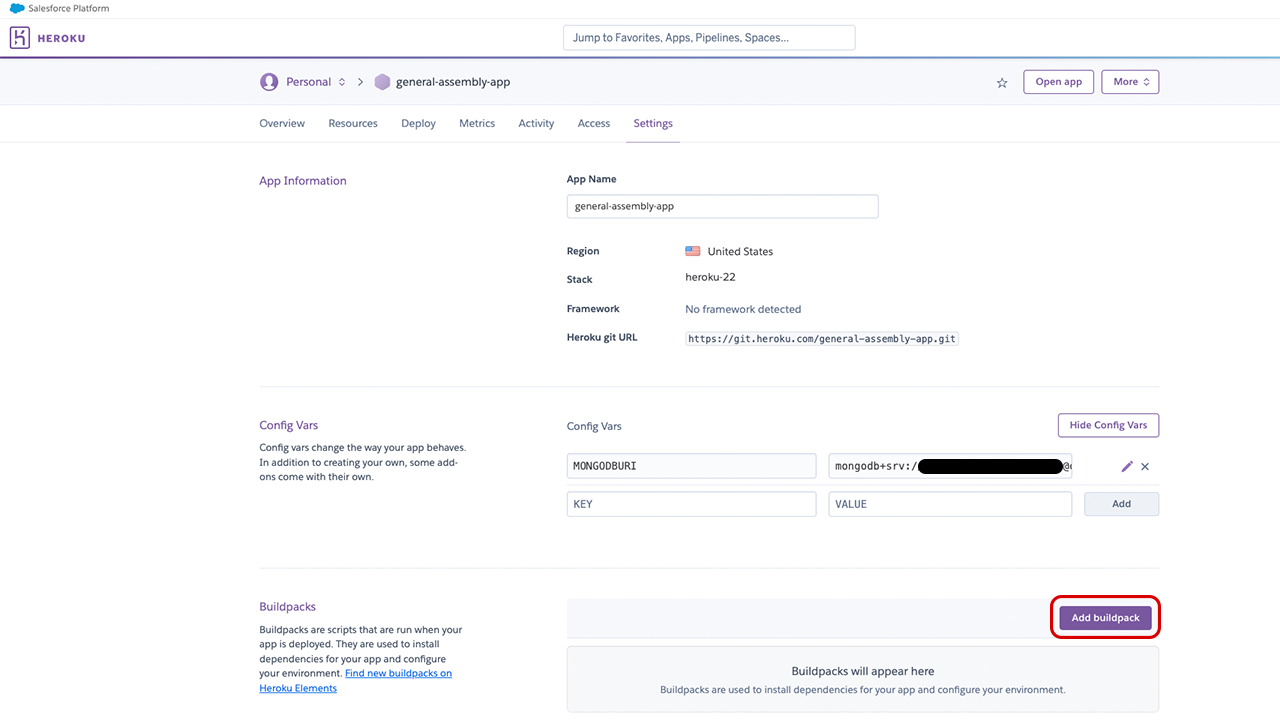
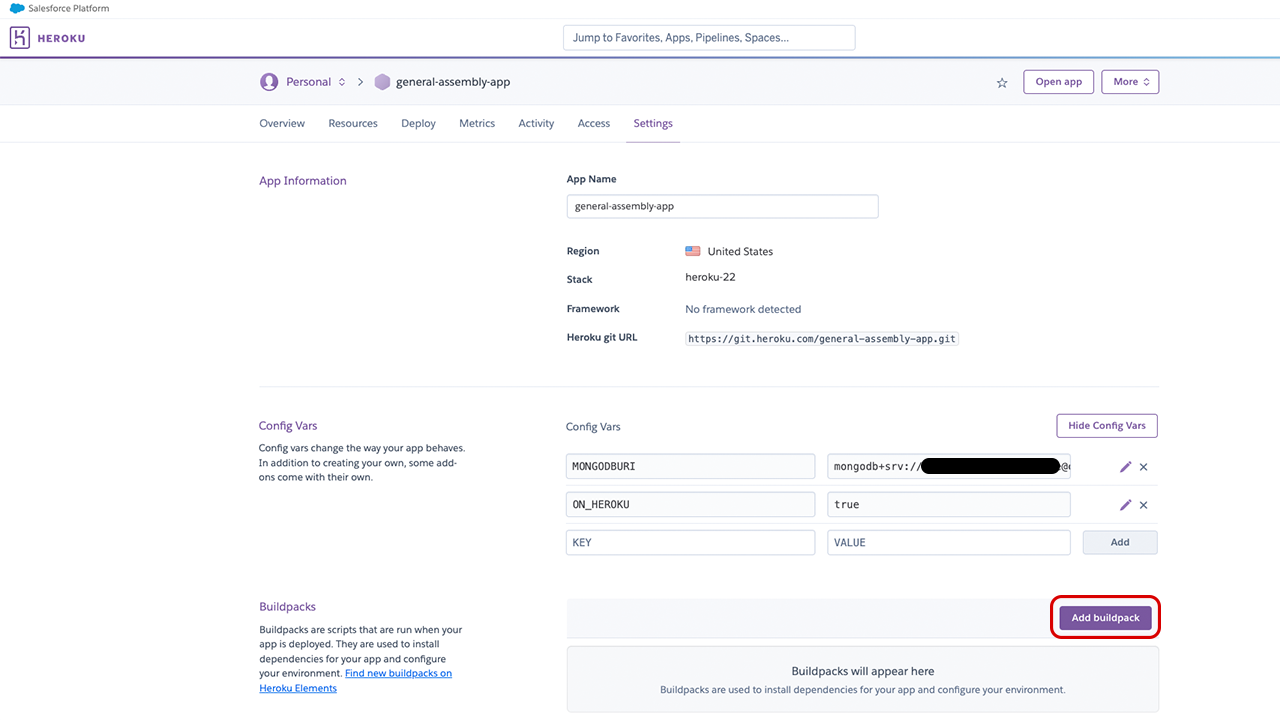
men-stack assets

diff --git a/deployment/men-stack-deployment/README.md b/deployment/men-stack-deployment/README.md
@@ -1,18 +1,11 @@
 # ![MEN Stack Deployment](./assets/hero.png)
-
-tktk Hunter, this needs a hero!
+[tktk Hunter, this needs a hero!]
 
 ## Intro
 
 This guide will walk you through deploying a MEN stack application on Heroku.
 
-
-## Deploying a MEN Stack App on Heroku
-
-Today we'll be deploying a MEN stack application to Heroku.
-
-You should already have set up a Heroku account. If not, refer to this [tktk walkthrough] to set one up.
-
+You should already have set up a Heroku account. If not, refer to [this walkthrough](../getting-started-with-heroku/README.md) to set one up.
 
 ## Step 1. Configure your MEN Stack Application
 
@@ -38,30 +31,28 @@ Take a look at your `package.json` and ensure there's an NPM script called start
 Log in to your Heroku account and navigate to the billing section of the site. Make sure you can see the platform credits available to you via GitHub Campus.
 
 Make sure you're subscribed to Eco Dynos to save money. If not yet subscribed, you can just click on the option shown in the image below.
-
-[]
+<img src="./assets/men-stack-1.png" />
 
 Navigate back to your apps dashboard and select one of the two options shown below to create a new application.
-
-[]
+<img src="./assets/men-stack-2.png" />
 
 Assign a name to your application. Keep in mind this name will be in the URL Heroku assigns your application.
-
-[]
+<img src="./assets/men-stack-3.png" />
 
 After creating your application you'll be taken to the application page. From here, navigate to your application settings.
+<img src="./assets/men-stack-4.png" />
 
-[]
+On your application settings page, define your environment variables. 
+<img src="./assets/men-stack-5.png" />
 
-On your application settings page, define your environment variables. You won't need to define a PORT, but you will need to add your MongoDB Atlas connection string. You will also need to add `ON_HEROKU` to `true`.
-
-[][]
+You won't need to define a PORT, but you will need to add your MongoDB Atlas connection string. You will also need to add `ON_HEROKU` to `true`.
+<img src="./assets/men-stack-6.png" />
 
 You'll also need to tell Heroku what type of application your website will be. We can do that using buildpacks. Underneath your config vars, select the option to add a buildpack.
-
-[]
+<img src="./assets/men-stack-7.png" />
 
 Select the Node.js buildpack.
+<img src="./assets/men-stack-8.png" />
 
 ### Step 3: Deploy to Heroku from GitHub
 
@@ -69,14 +60,14 @@ Now that your Heroku application is properly configured, it's time to connect yo
 
 Select the Deploy option in your application page toolbar, select GitHub as your deployment method, and then connect your GitHub account.
 
-[]
+<img src="./assets/men-stack-9.png" />
 
 Once you've connected your GitHub account, specify which repository you'll use to deploy your application.
 
-[]
+<img src="./assets/men-stack-10.png" />
 
 Upon selecting your repository, you can select a specific branch to deploy your app from. Enable automatic deploys so that your Heroku app updates every time the branch you selected is pushed to.
 
-[]
+<img src="./assets/men-stack-11.png" />
 
 Additionally, you can trigger a manual deploy to instantly deploy your application.
